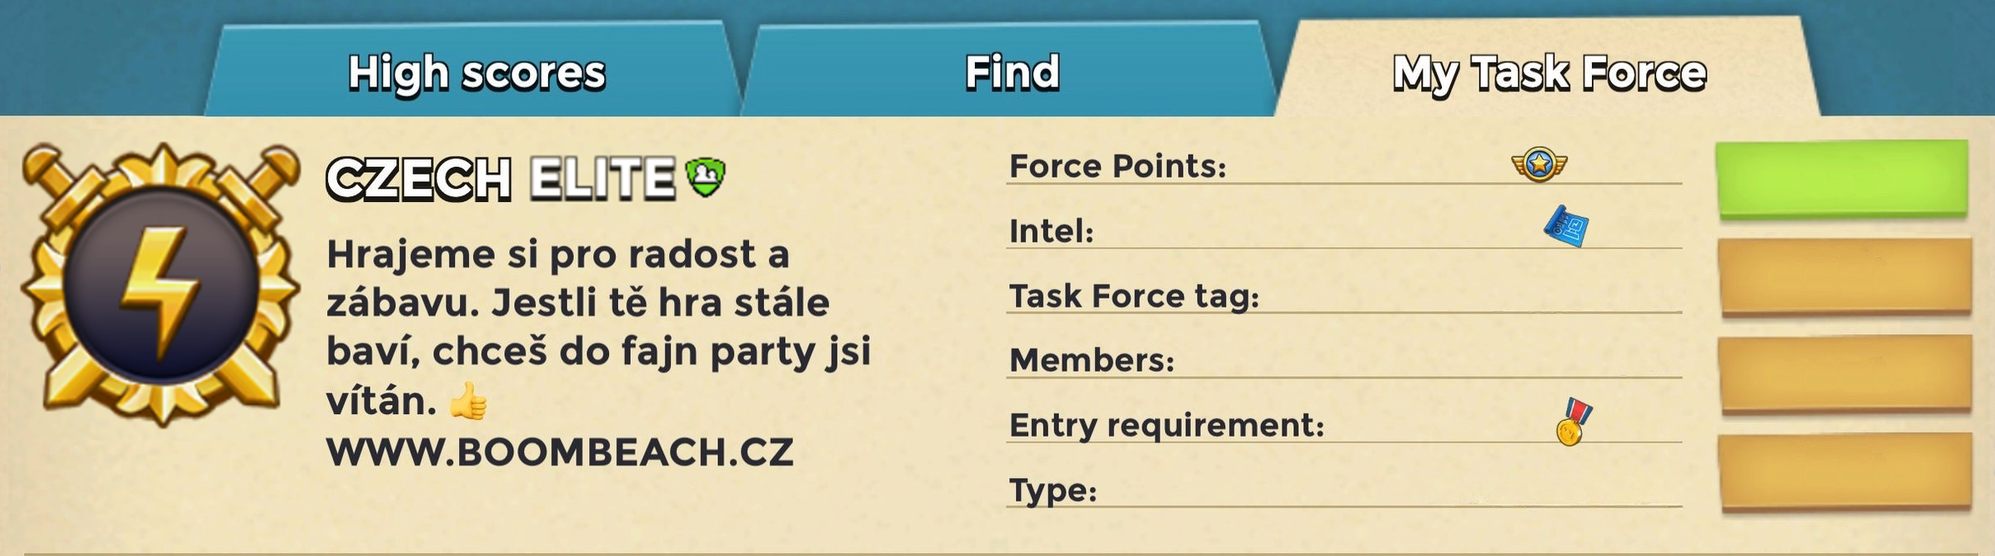
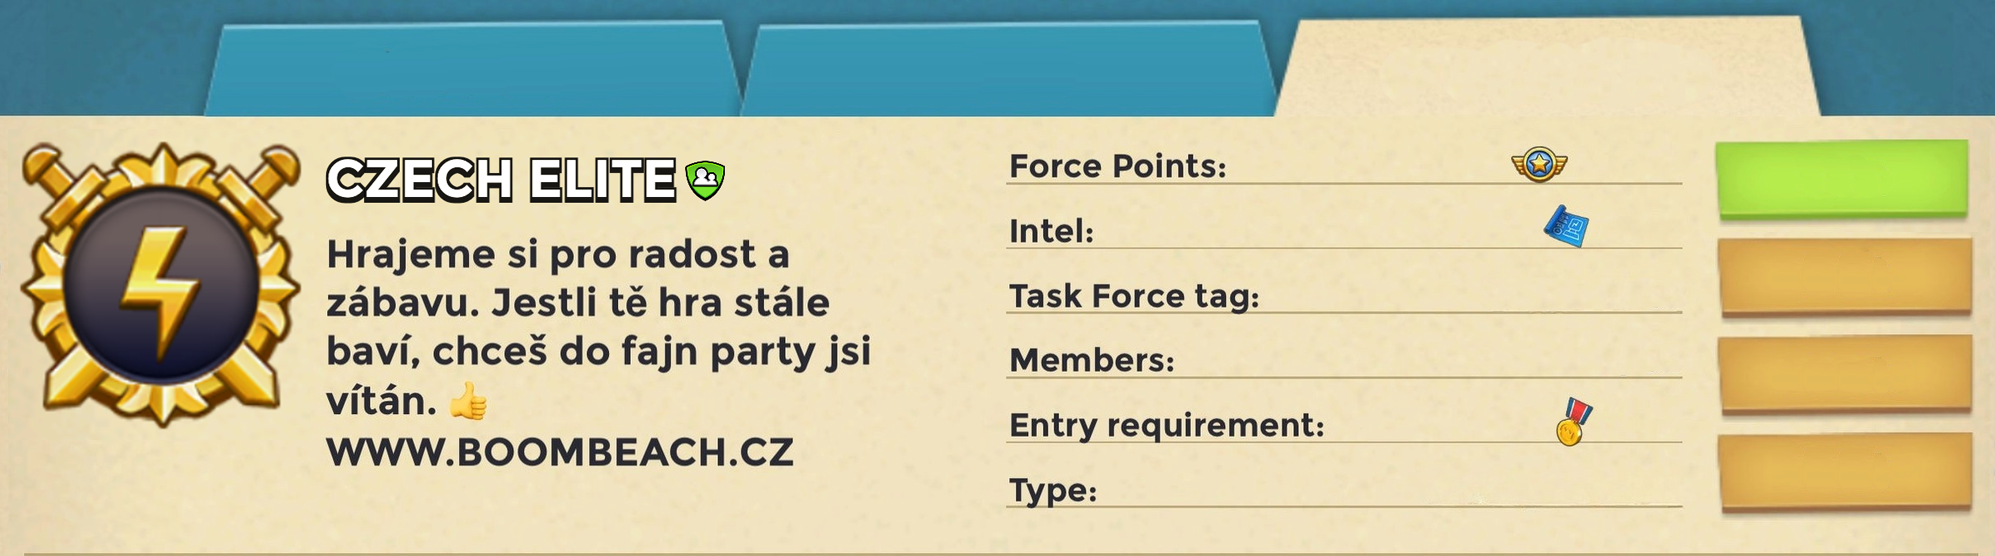
Update CZECH ELITE header navigation

diff --git a/index.html b/index.html
@@ -191,6 +191,7 @@ html, body {
 .qr {
   cursor: pointer;
   text-decoration: none;
+  transform: translateY(10px);
 }
 .account-name {
   cursor: pointer;
@@ -347,6 +348,35 @@ html, body {
   width: 100%;
   height: auto;
 }
+.team-tab-label {
+  position: absolute;
+  top: 0;
+  height: 20.5%;
+  display: flex;
+  align-items: center;
+  justify-content: center;
+  box-sizing: border-box;
+  color: #fff;
+  font-family: "Trebuchet MS", Arial, sans-serif;
+  font-size: 52.8px;
+  font-weight: 600;
+  line-height: 1;
+  white-space: nowrap;
+  text-align: center;
+  text-decoration: none;
+  transform: translateY(10px);
+  text-shadow:
+    -2px -2px 0 #000,
+     2px -2px 0 #000,
+    -2px  2px 0 #000,
+     2px  2px 0 #000,
+     0 5px 0 rgba(0,0,0,.6);
+}
+.team-tab-back { left: 10.2%; width: 27.1%; }
+.team-tab-czech { left: 37.3%; width: 27.2%; }
+.team-tab-elite { left: 64.4%; width: 27.1%; }
+.team-tab-label[href] { cursor: pointer; }
+.team-tab-label:focus-visible { outline: 4px solid #fff; outline-offset: -7px; }
 
 .team-info-value {
   position: absolute;
@@ -360,7 +390,7 @@ html, body {
   color: #2b2b31;
   font-family: "Trebuchet MS", Arial, sans-serif;
   font-size: 34px;
-  font-weight: 900;
+  font-weight: 600;
   font-variant-numeric: tabular-nums;
   line-height: 1;
   white-space: nowrap;
@@ -389,6 +419,7 @@ html, body {
   line-height: 1;
   text-align: center;
   text-decoration: none;
+  transform: translateY(10px);
   text-shadow:
     -2px -2px 0 #000,
      2px -2px 0 #000,
@@ -487,7 +518,7 @@ html, body {
   color: #fff;
   background: #52aee0;
   font-size: 24px;
-  font-weight: 900;
+  font-weight: 600;
   text-shadow: 1px 1px 2px #000;
 }
 .help-level-dot.absent { border-color: #298a51; background: #66d891; }
@@ -515,7 +546,10 @@ html, body {
 <body>
 
 <div class="team-header" aria-label="Informace o týmu">
-  <img class="team-header-image" src="img/team-header.png?v=20260815-1" alt="CZECH ELITE task force">
+  <img class="team-header-image" src="img/team-header.png?v=20260911-2" alt="CZECH ELITE task force">
+  <a class="team-tab-label team-tab-back" href="https://boombeach.cz/">Zpět na 🌐</a>
+  <a class="team-tab-label team-tab-czech" href="https://pv9ljuq2.boombeach.cz/">CZECH</a>
+  <span class="team-tab-label team-tab-elite" aria-current="page">CZECH ELITE</span>
   <a class="team-action team-action-join" href="https://link.boombeach.com/?url=boombeach%3A%2F%2FViewTaskforce%3Ftag%3D%23U0RLR" aria-label="Připojit se k CZECH ELITE task force">PŘIPOJIT</a>
   <button id="operationsButton" class="team-action team-action-operations" type="button">OPERACE</button>
   <a class="team-action team-action-awards" href="diplomy.html">DIPLOMY</a>
